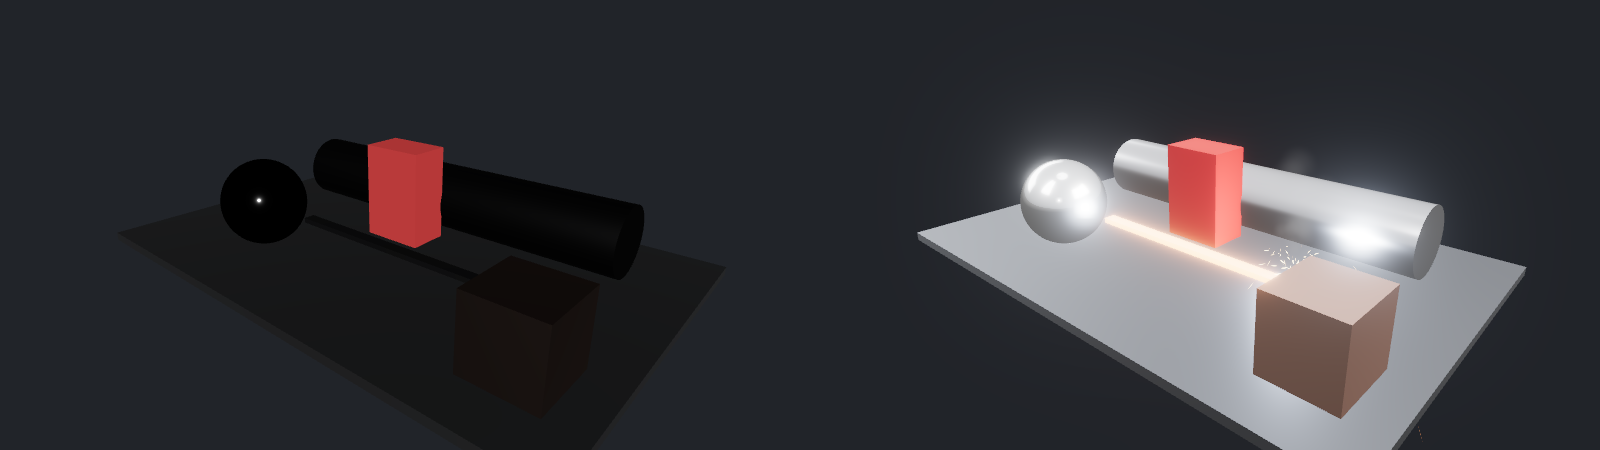
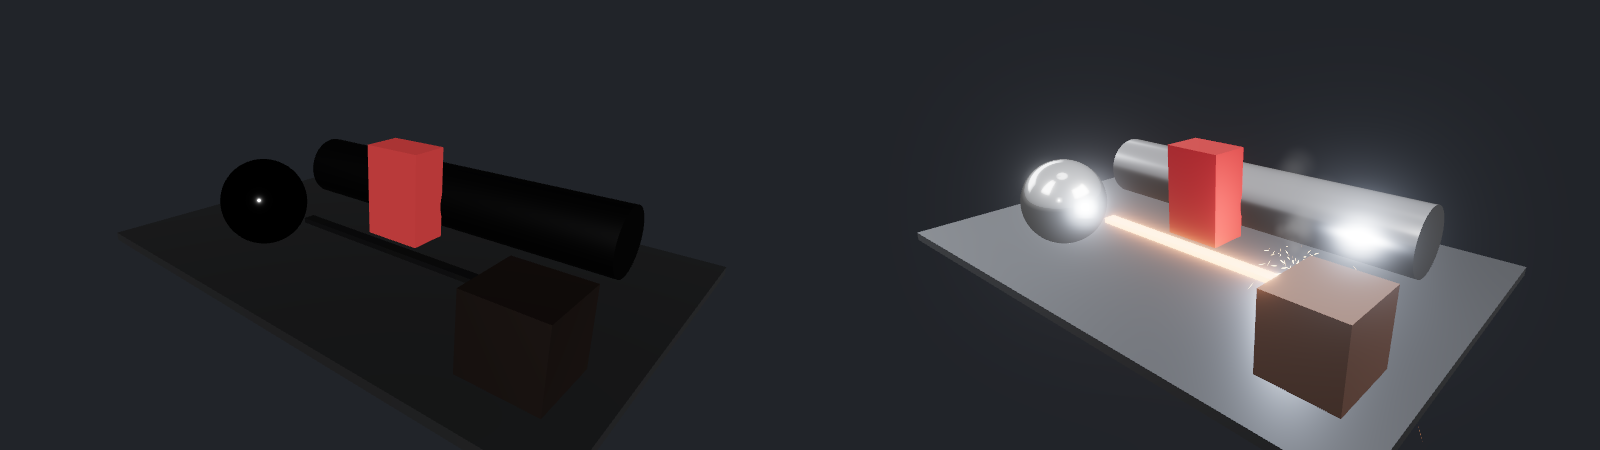
fix(render): a studio environment that lights diffuse surfaces as it lights metal, and --lighting in the CLI
The procedural studio is scaled so that a white diffuse face turned up is lit to 0.75. Its softboxes had burnt every diffuse surface to white. The CLI takes --lighting AMBIENT,HEADLIGHT so a scene lit by its environment can lower the viewer's own lights. The docs images are regenerated.

Claude-Session: https://claude.ai/code/session_013iYuG4YFwFG26voMv9GEYi

Changed region(s): [[0.5625, 0.3111, 0.9688, 1.0]]

diff --git a/src/render/cli_main.cpp b/src/render/cli_main.cpp
@@ -5,7 +5,7 @@
 //                 [--pick X,Y] [--bench N] [--camera ex,ey,ez,tx,ty,tz] [--line-width PX] [--point-size PX]
 //                 [--gizmo] [--overlay spec.json]   (orientation gizmo / colour legend, see overlay_json.h)
 //                 [--effects spec.json] [--time T] [--hdr] [--tonemap none|neutral|aces] [--exposure E]
-//                 [--bloom] [--env studio|file.hdr]   (realistic visuals, see docs/render_effects.md; the GLB's own
+//                 [--bloom] [--env studio|file.hdr] [--lighting AMBIENT,HEADLIGHT]   (realistic visuals, see docs/render_effects.md; the GLB's own
 //                 "ada_effects" scene extras are applied too)
 #include <chrono>
 #include <cstdio>
@@ -34,7 +34,7 @@ int main(int argc, char **argv) {
                      "[--backend auto|vulkan|gl] [--y-up] [--no-cull] [--cpu-cull] [--stats] [--pick X,Y] [--bench N] "
                      "[--camera ex,ey,ez,tx,ty,tz] [--line-width PX] [--point-size PX] [--gizmo] [--overlay spec.json] "
                      "[--effects spec.json] [--time T] [--hdr] [--tonemap none|neutral|aces] [--exposure E] [--bloom] "
-                     "[--env studio|file.hdr]\n",
+                     "[--env studio|file.hdr] [--lighting AMBIENT,HEADLIGHT]\n",
                      argv[0]);
         return 2;
     }
@@ -47,7 +47,8 @@ int main(int argc, char **argv) {
     std::string overlay_path, effects_path, tonemap, env_name;
     double time = 0.0;
     bool hdr = false, bloom = false;
-    float exposure = -1.0f;
+    float exposure = -1.0f, lighting[2] = {0, 0};
+    bool lighting_set = false;
     for (int i = 3; i < argc; ++i) {
         std::string a = argv[i];
         if (a == "--size" && i + 1 < argc)
@@ -81,6 +82,8 @@ int main(int argc, char **argv) {
             exposure = std::strtof(argv[++i], nullptr);
         else if (a == "--env" && i + 1 < argc)
             env_name = argv[++i];
+        else if (a == "--lighting" && i + 1 < argc)
+            lighting_set = std::sscanf(argv[++i], "%f,%f", &lighting[0], &lighting[1]) == 2;
         else if (a == "--hdr")
             hdr = true;
         else if (a == "--bloom")
@@ -148,6 +151,8 @@ int main(int argc, char **argv) {
             renderer.set_environment(env);
         }
         renderer.set_time(time);
+        if (lighting_set)
+            renderer.set_lighting(lighting[0], lighting[1]);
         const double load_ms =
             std::chrono::duration<double, std::milli>(std::chrono::steady_clock::now() - load_t0).count();
         Camera cam = frame_bounds(renderer.bounds(), vit->second, {0, 0, 1}, 60.0f, float(w) / float(h));

diff --git a/src/render/effects.cpp b/src/render/effects.cpp
@@ -369,6 +369,26 @@ EnvImage studio_environment(uint32_t width, uint32_t height) {
             }
             std::copy(c.begin(), c.end(), img.rgb.begin() + (size_t(y) * width + x) * 3);
         }
+    // Scaled so a white diffuse face turned up is lit to kUpwardShade (its cosine-weighted radiance from above):
+    // the softboxes are what a metal reflects, and left as they are they burnt every diffuse surface to white.
+    constexpr double kUpwardShade = 0.75;
+    double num = 0.0, den = 0.0;
+    for (uint32_t y = 0; y < height; ++y) {
+        const float v = (y + 0.5f) / height;
+        const double cos_up = std::cos(double(v) * kPi), solid = std::sin(double(v) * kPi);
+        if (cos_up <= 0.0)
+            continue;
+        for (uint32_t x = 0; x < width; ++x) {
+            const float *p = &img.rgb[(size_t(y) * width + x) * 3];
+            num += (0.2126 * p[0] + 0.7152 * p[1] + 0.0722 * p[2]) * cos_up * solid;
+            den += cos_up * solid;
+        }
+    }
+    if (num > 0.0) {
+        const float k = float(kUpwardShade * den / num);
+        for (float &c : img.rgb)
+            c *= k;
+    }
     return img;
 }
 
